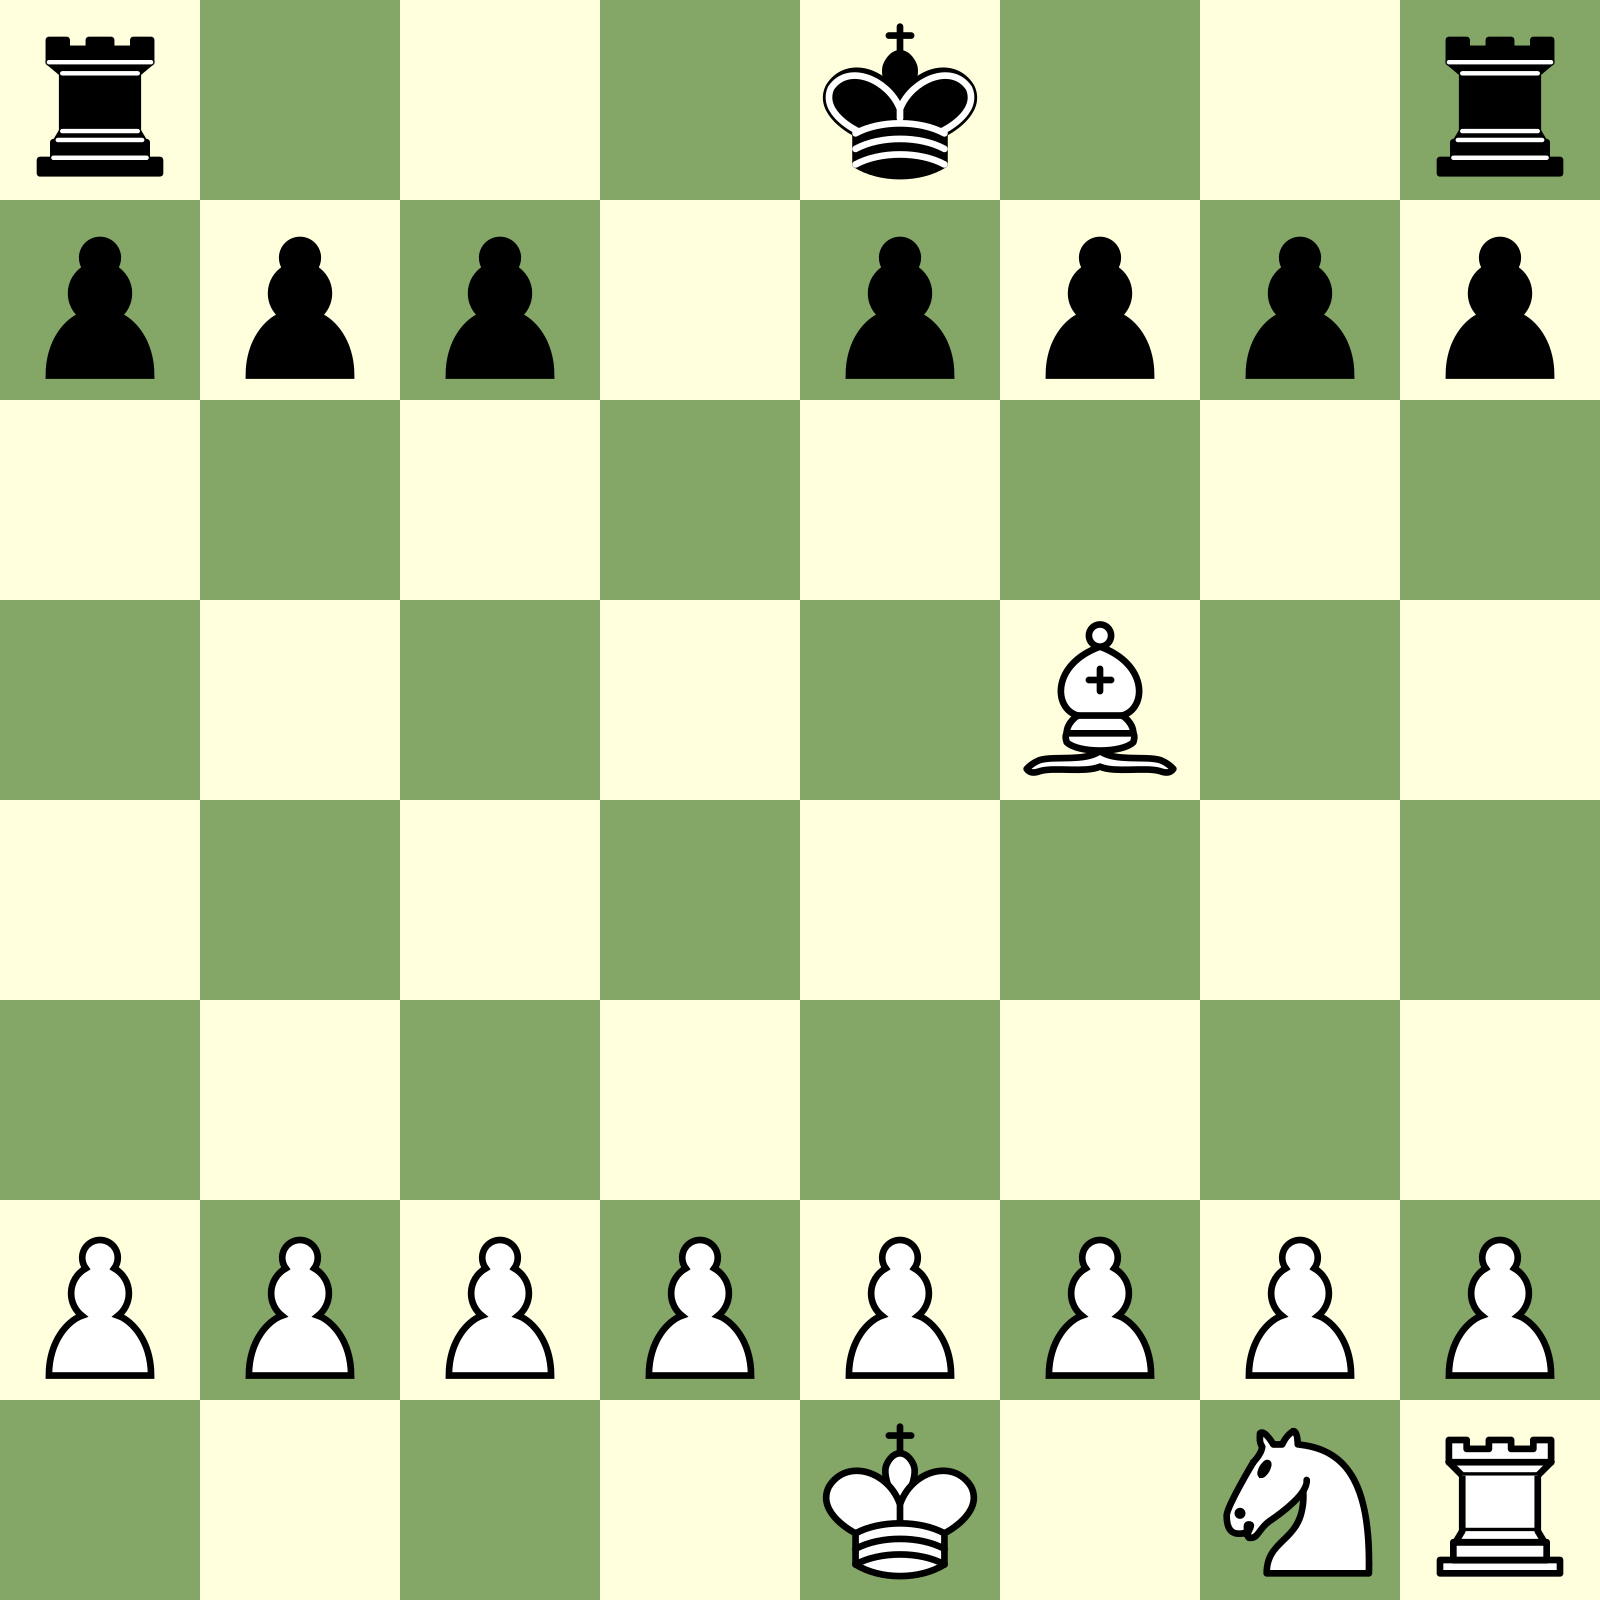
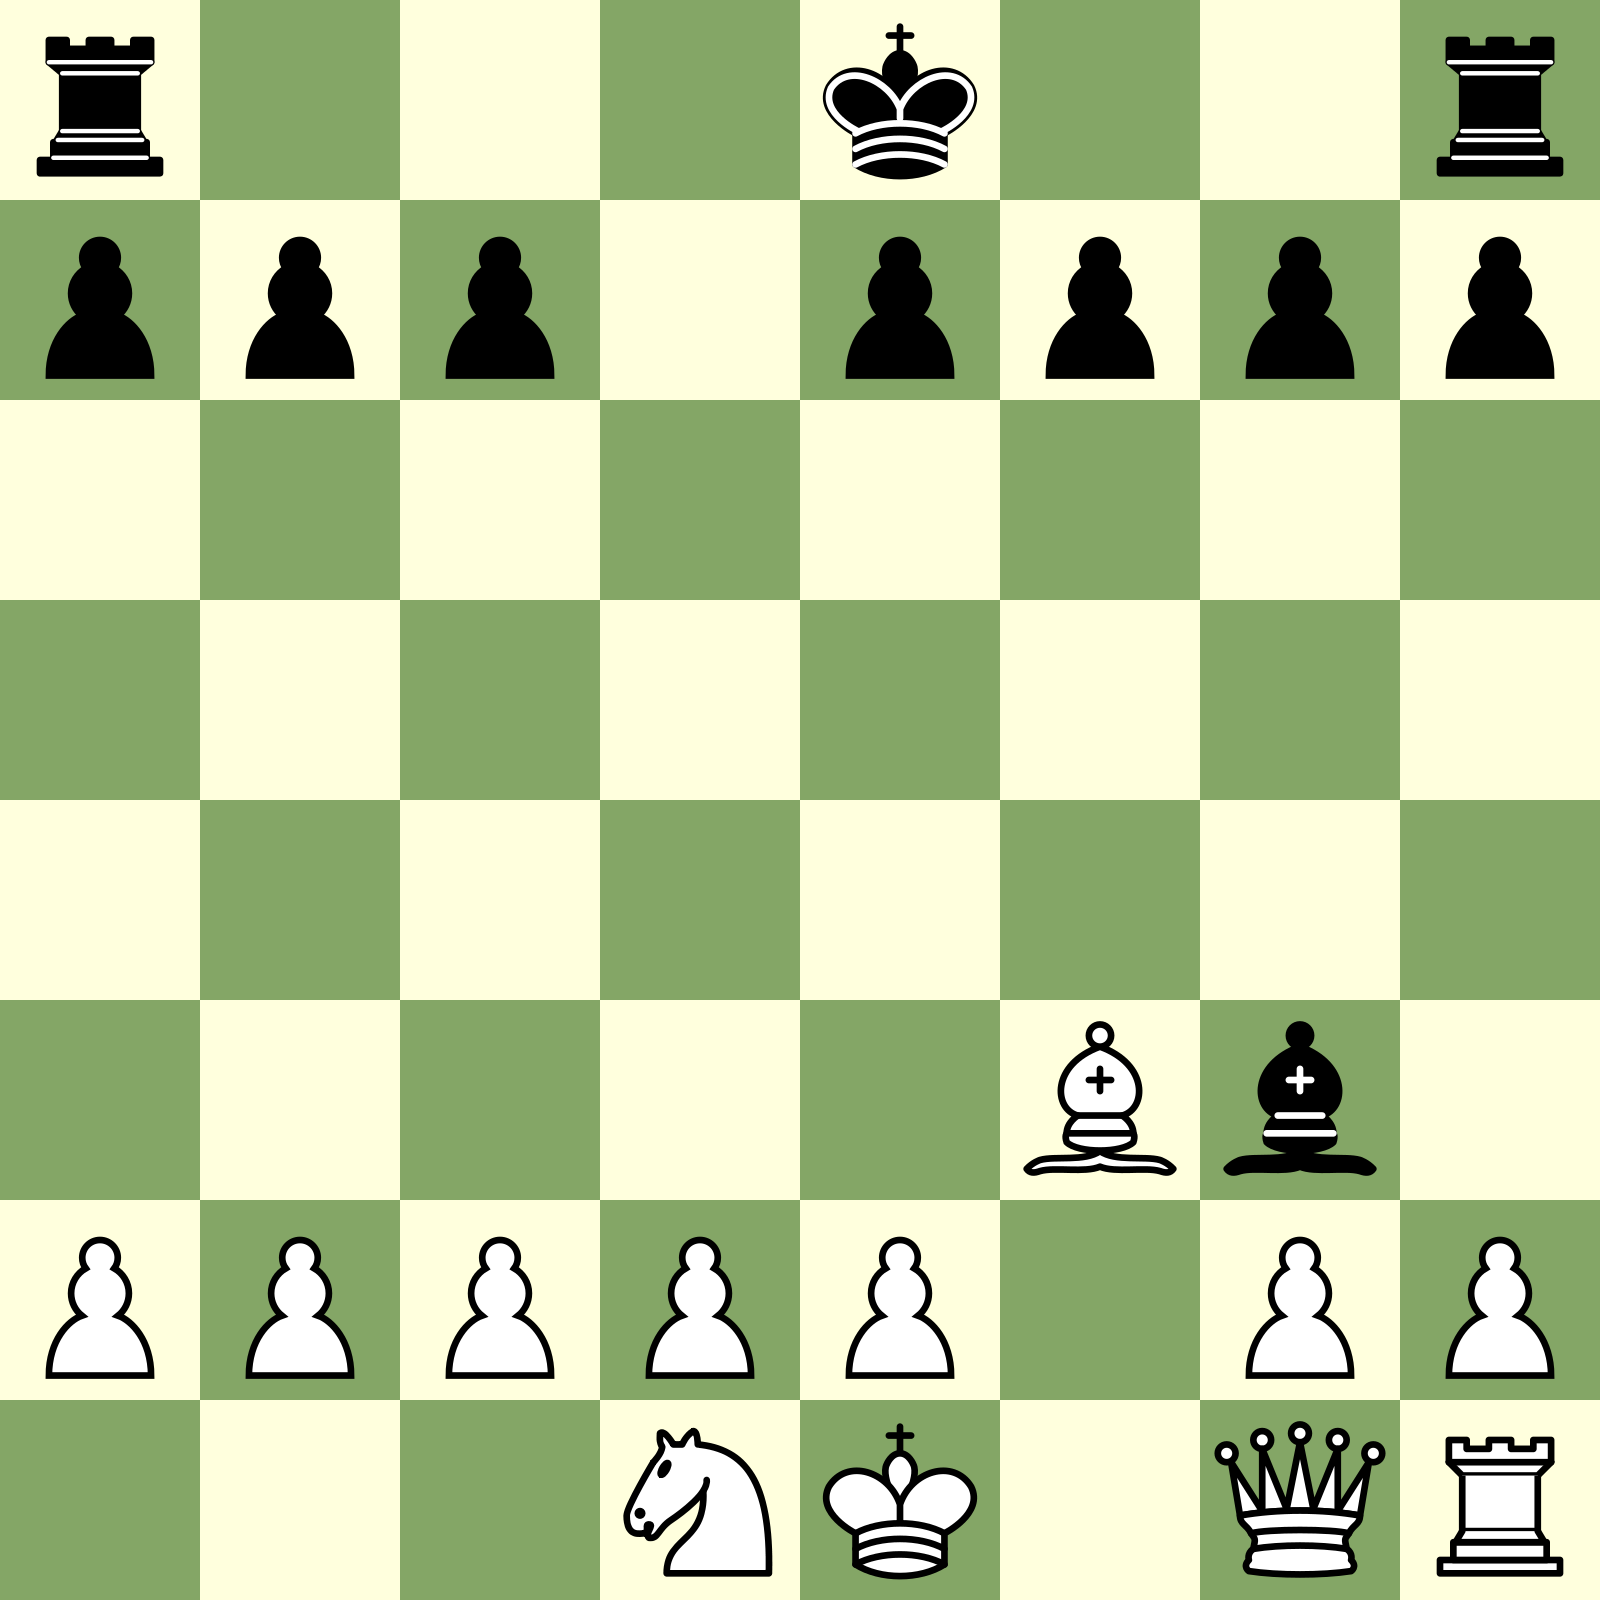
added some functions to check if moves stops check; will be used on checkmate function

diff --git a/game.py b/game.py
@@ -3,6 +3,7 @@ from copy import deepcopy
 
 # TODO:
 #   check for checkmate
+#   stalement
 
 class CheckException(Exception):
 	pass
@@ -36,11 +37,11 @@ class Game:
 			['br', None, None, None, 'bk', None, None, 'br'],
 			['bp', 'bp', 'bp', None, 'bp', 'bp', 'bp', 'bp'],
 			[None, None, None, None, None, None, None, None],
-			[None, None, None, None, None, 'wb', None, None],
 			[None, None, None, None, None, None, None, None],
 			[None, None, None, None, None, None, None, None],
-			['wp', 'wp', 'wp', 'wp', 'wp', 'wp', 'wp', 'wp'],
-			[None, None, None, None, 'wk', None, 'wn', 'wr']
+			[None, None, None, None, None, 'wb', 'bb', None],
+			['wp', 'wp', 'wp', 'wp', 'wp', None, 'wp', 'wp'],
+			[None, None, None, 'wn', 'wk', None, 'wq', 'wr']
 		]
 
 		self.moves = []
@@ -634,9 +635,9 @@ class Game:
 			raise IlegalMoveException('This move is invalid')
 
 	# -----------------------------------------------------------------------------------------------------------------
-	#                                           CHECK VALIDATORS
+	#                                      CHECK AND ENDGAME VALIDATORS
 	# -----------------------------------------------------------------------------------------------------------------
-	# Validators specific for checks
+	#
 	# -----------------------------------------------------------------------------------------------------------------
 
 	def validate_move_causes_self_check(self, piece_coord, destination):
@@ -669,9 +670,9 @@ class Game:
 			self.validate_square_in_check(king_coord, piece_at_square=True)
 		except CheckException as ce:
 			raise CheckException('This move causes yourself a check')
-
-		# going back to normal
-		self.board = deepcopy(board_copy)
+		finally:
+			# going back to normal
+			self.board = deepcopy(board_copy)
 
 	def validate_square_in_check(self, piece_coord, piece_at_square):
 		# the not piece_at_square is a fix because in the castle calculation, it would not consider the path between the rook
@@ -770,8 +771,205 @@ class Game:
 			# Couldn't capture
 			pass
 
+	def is_checkmate(self):
+		king_coord = None
+		color_char = None
+		if self.turn == WHITE:
+			king_coord = self.white_king_coord
+			color_char = 'w'
+		else:
+			king_coord = self.black_king_coord
+			color_char = 'b'
+
+		try:
+			self.validate_square_in_check(king_coord, piece_at_square=True)
+			return False
+		except CheckException:
+			pass
+
+		for i in range(8):
+			for j in range(8):
+				cell = self.board[i][j]
+				if cell is not None and cell[0] == color_char:
+					if cell[1] == 'r':
+						if self.rook_move_stops_check(i, j):
+							return False
+					elif cell[1] == 'n':
+						if self.knight_move_stops_check(i, j):
+							return False
+
+	def rook_move_stops_check(self, i, j):
+		# going throw the rows
+		for row in range(i + 1, 8):
+			try:
+				self.validate_rook_move((i, j), (row, j), self.board[row][j] is not None)
+				self.validate_move_causes_self_check((i, j), (row, j))
+				return True
+			except IlegalMoveException:
+				break
+			except CheckException:
+				pass
+
+		for row in range(i - 1, -1, -1):
+			try:
+				self.validate_rook_move((i, j), (row, j), self.board[row][j] is not None)
+				self.validate_move_causes_self_check((i, j), (row, j))
+				return True
+			except IlegalMoveException:
+				break
+			except CheckException:
+				pass
+
+		# going throw the columns
+		for col in range(j + 1, 8):
+			try:
+				self.validate_rook_move((i, j), (i, col), self.board[i][col] is not None)
+				self.validate_move_causes_self_check((i, j), (i, col))
+				return True
+			except IlegalMoveException:
+				break
+			except CheckException:
+				pass
+
+		for col in range(j - 1, -1, -1):
+			try:
+				self.validate_rook_move((i, j), (i, col), self.board[i][col] is not None)
+				self.validate_move_causes_self_check((i, j), (i, col))
+				return True
+			except IlegalMoveException:
+				break
+			except CheckException:
+				pass
+
+		return False
+
+	def knight_move_stops_check(self, i, j):
+		ang = 0
+		while ang < 2 * pi:
+			row = i + 2 * int(cos(ang)) + int(sin(ang))
+			col = j + 2 * int(sin(ang)) + int(cos(ang))
+			if self.validate_coord_out_of_board((row, col)):
+				try:
+					self.validate_knight_move((i, j), (row, col), self.board[row][col] is not None)
+					self.validate_move_causes_self_check((i, j), (row, col))
+					return True
+				except IlegalMoveException or CheckException:
+					pass
+
+			row = i + 2 * int(cos(ang)) - int(sin(ang))
+			col = j + 2 * int(sin(ang)) - int(cos(ang))
+			if self.validate_coord_out_of_board((row, col)):
+				try:
+					self.validate_knight_move((i, j), (row, col), self.board[row][col] is not None)
+					self.validate_move_causes_self_check((i, j), (row, col))
+					return True
+				except IlegalMoveException or CheckException:
+					pass
+
+			ang += pi / 2
+
+	def bishop_move_stops_check(self, i, j):
+		for y in range(-1, 2, 2):
+			for x in range(-1, 2, 2):
+				pos = [i + y, j + x]
+				while self.validate_coord_out_of_board(pos):
+					try:
+						self.validate_bishop_move((i, j), tuple(pos), self.board[pos[0]][pos[1]] is not None)
+						self.validate_move_causes_self_check((i, j), tuple(pos))
+						return True
+					except IlegalMoveException:
+						break
+					except CheckException:
+						pass
+
+					pos[0] += y
+					pos[1] += x
+
+		return False
+
+	def queen_move_stops_check(self, i, j):
+		# rook part
+		# going throw the rows
+		for row in range(i + 1, 8):
+			try:
+				self.validate_queen_move((i, j), (row, j), self.board[row][j] is not None)
+				self.validate_move_causes_self_check((i, j), (row, j))
+				return True
+			except IlegalMoveException:
+				break
+			except CheckException:
+				pass
+
+		for row in range(i - 1, -1, -1):
+			try:
+				self.validate_queen_move((i, j), (row, j), self.board[row][j] is not None)
+				self.validate_move_causes_self_check((i, j), (row, j))
+				return True
+			except IlegalMoveException:
+				break
+			except CheckException:
+				pass
+
+		# going throw the columns
+		for col in range(j + 1, 8):
+			try:
+				self.validate_queen_move((i, j), (i, col), self.board[i][col] is not None)
+				self.validate_move_causes_self_check((i, j), (i, col))
+				return True
+			except IlegalMoveException:
+				break
+			except CheckException:
+				pass
+
+		for col in range(j - 1, -1, -1):
+			try:
+				self.validate_queen_move((i, j), (i, col), self.board[i][col] is not None)
+				self.validate_move_causes_self_check((i, j), (i, col))
+				return True
+			except IlegalMoveException:
+				break
+			except CheckException:
+				pass
+
+		# bishop part
+		for y in range(-1, 2, 2):
+			for x in range(-1, 2, 2):
+				pos = [i + y, j + x]
+				while self.validate_coord_out_of_board(pos):
+					self.validate_queen_move((i, j), tuple(pos), self.board[pos[0]][pos[1]] is not None)
+					try:
+						self.validate_queen_move((i, j), tuple(pos), self.board[pos[0]][pos[1]] is not None)
+						self.validate_move_causes_self_check((i, j), tuple(pos))
+						return True
+					except IlegalMoveException as e:
+						print(e)
+						break
+					except CheckException:
+						pass
+
+					pos[0] += y
+					pos[1] += x
+
+		return False
+
+	def king_move_stops_check(self, i, j):
+		for y in range(-1, 2):
+			for x in range(-1, 2):
+				des = (i + y, j + x)
+				if (y != 0 or x != 0) and self.validate_coord_out_of_board(des):
+					try:
+						self.validate_king_move((i, j), des, self.board[des[0]][des[1]] is not None)
+						self.validate_move_causes_self_check((i, j), des)
+						return True
+					except IlegalMoveException:
+						break
+					except CheckException:
+						pass
+
+		return False
+
 	# -----------------------------------------------------------------------------------------------------------------
-	#                                 ALGEBRAIC NOTATION TRANSLATORS AND MOVE HANDLER
+	#                                ALGEBRAIC NOTATION TRANSLATORS AND MOVE HANDLERS
 	# -----------------------------------------------------------------------------------------------------------------
 	# These functions are designed to translate the algebraic notation into data to be used on the other functions.
 	# -----------------------------------------------------------------------------------------------------------------

diff --git a/main.py b/main.py
@@ -12,6 +12,9 @@ def move_piece(movement):
 game = Game()
 draw_board(game.get_board())
 
+print(game.queen_move_stops_check(7, 6))
 
+'''
 while True:
     move_piece(input())
+'''
